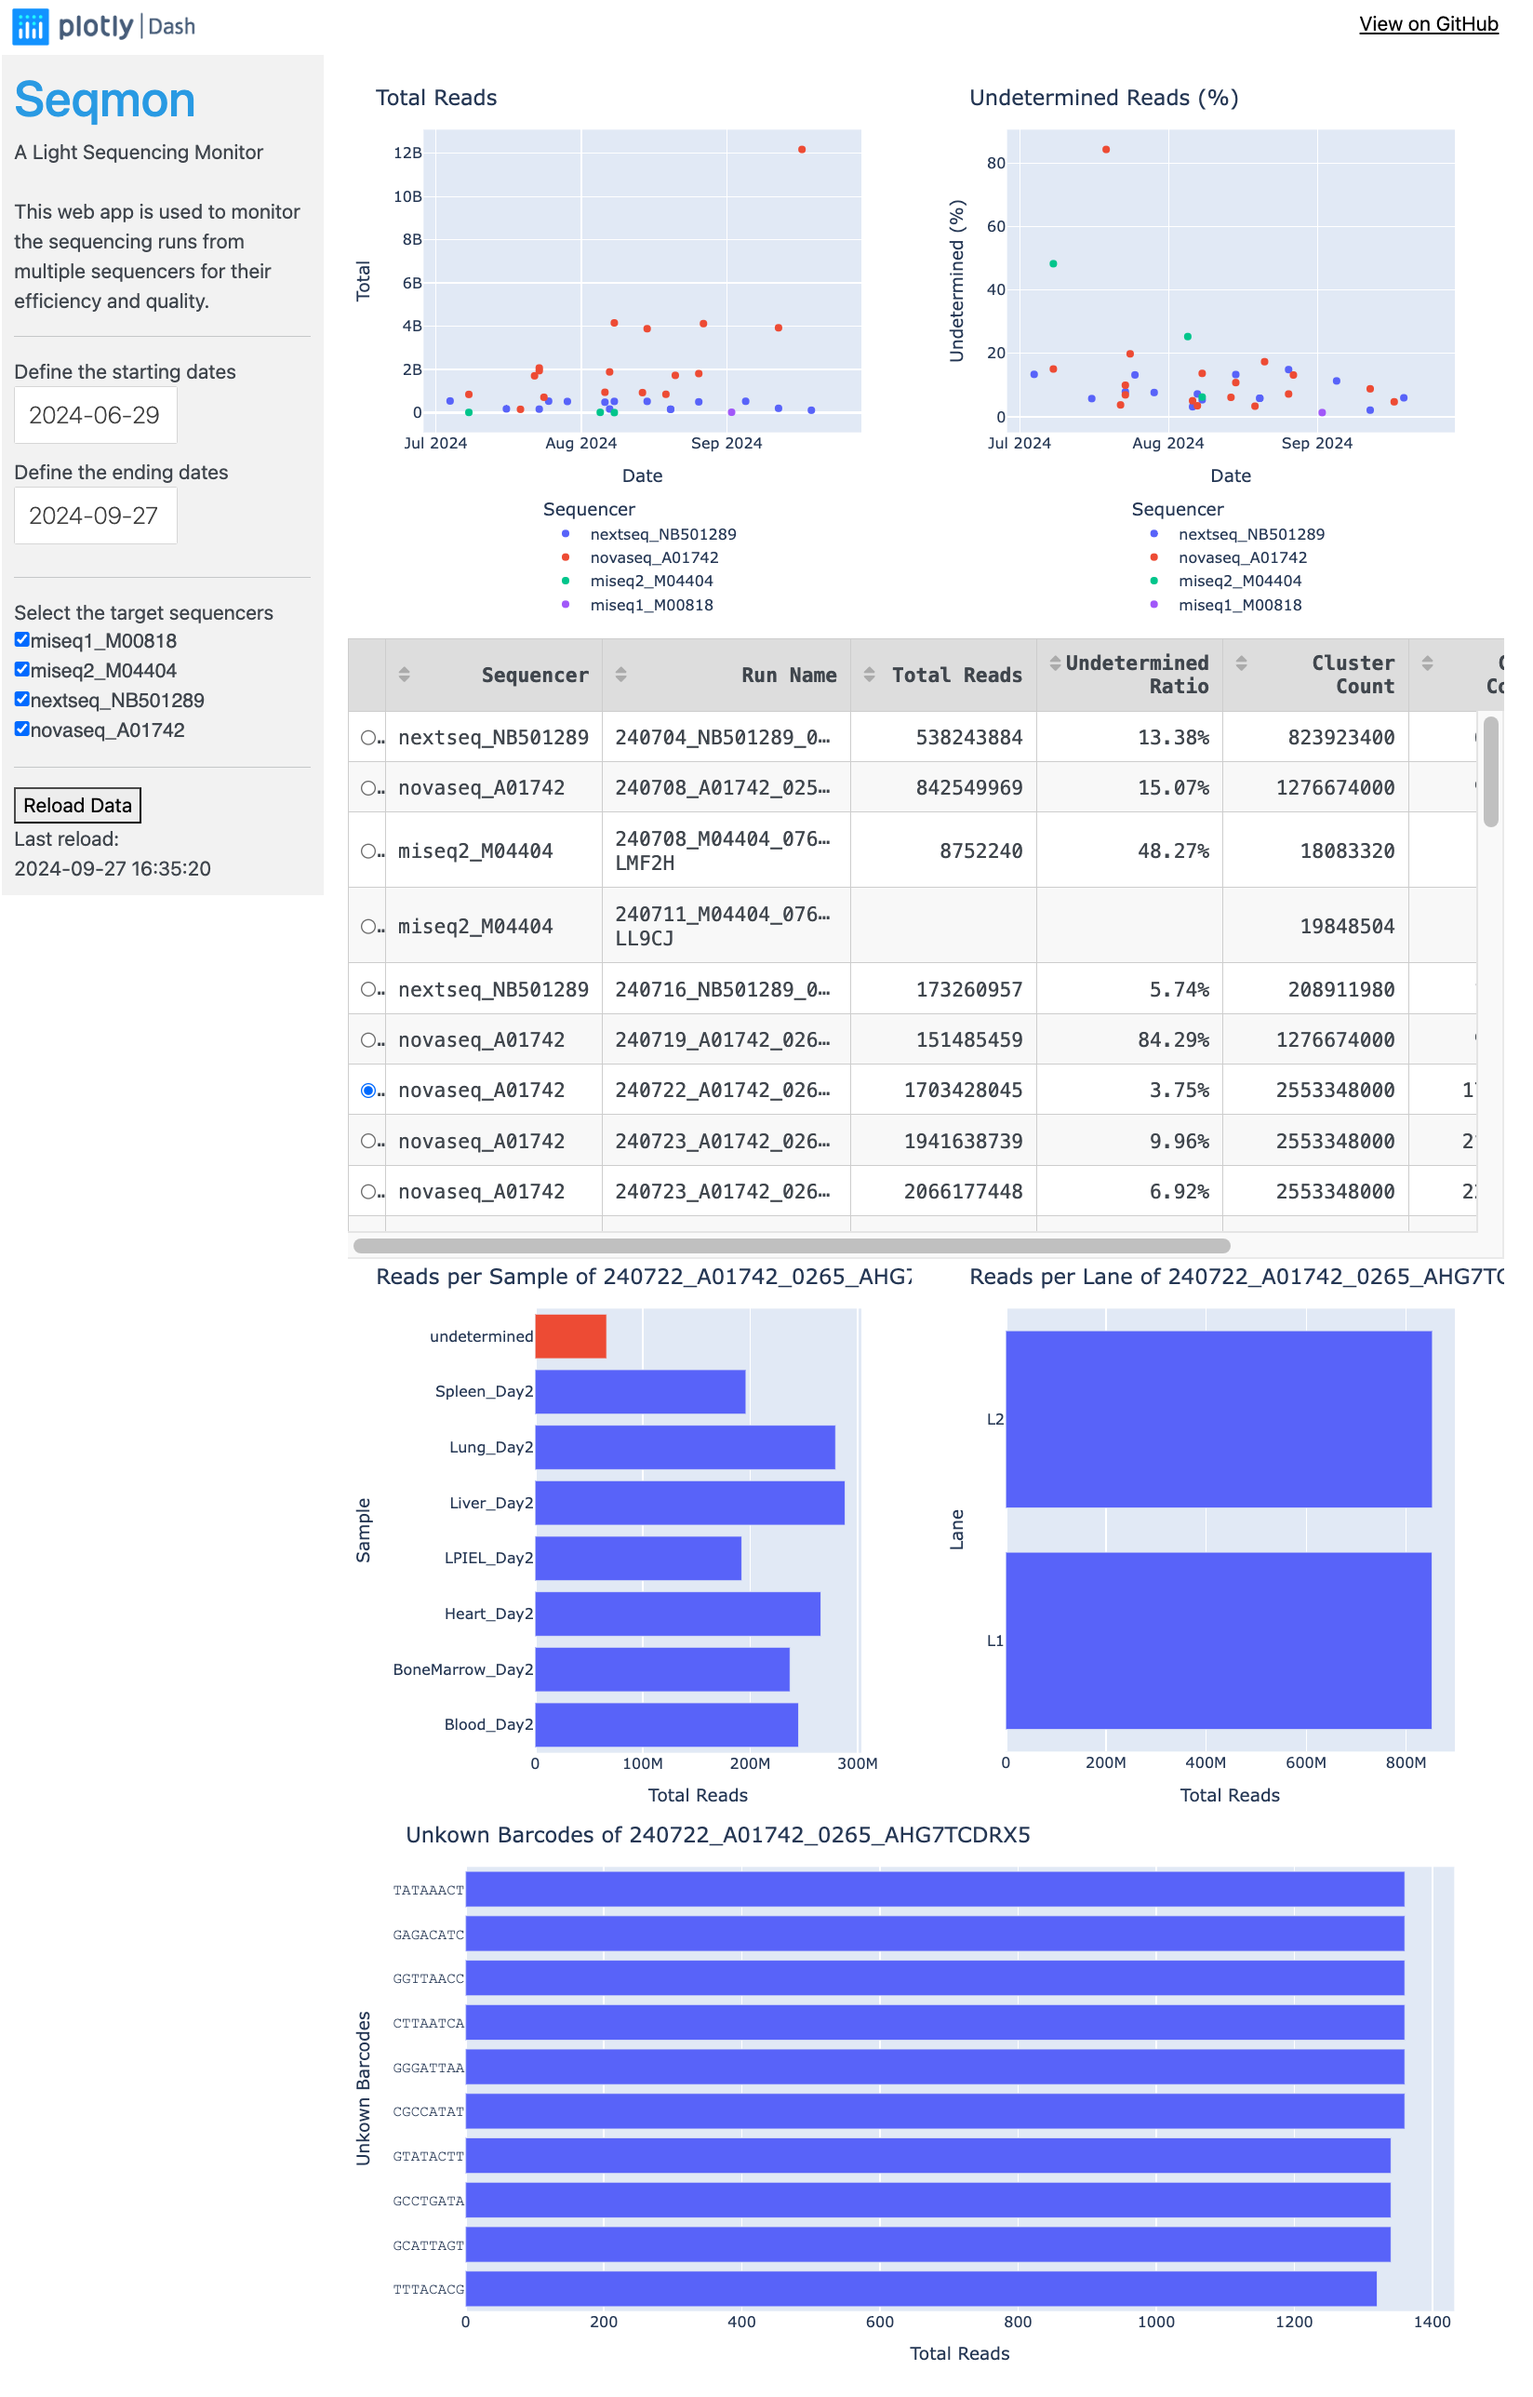
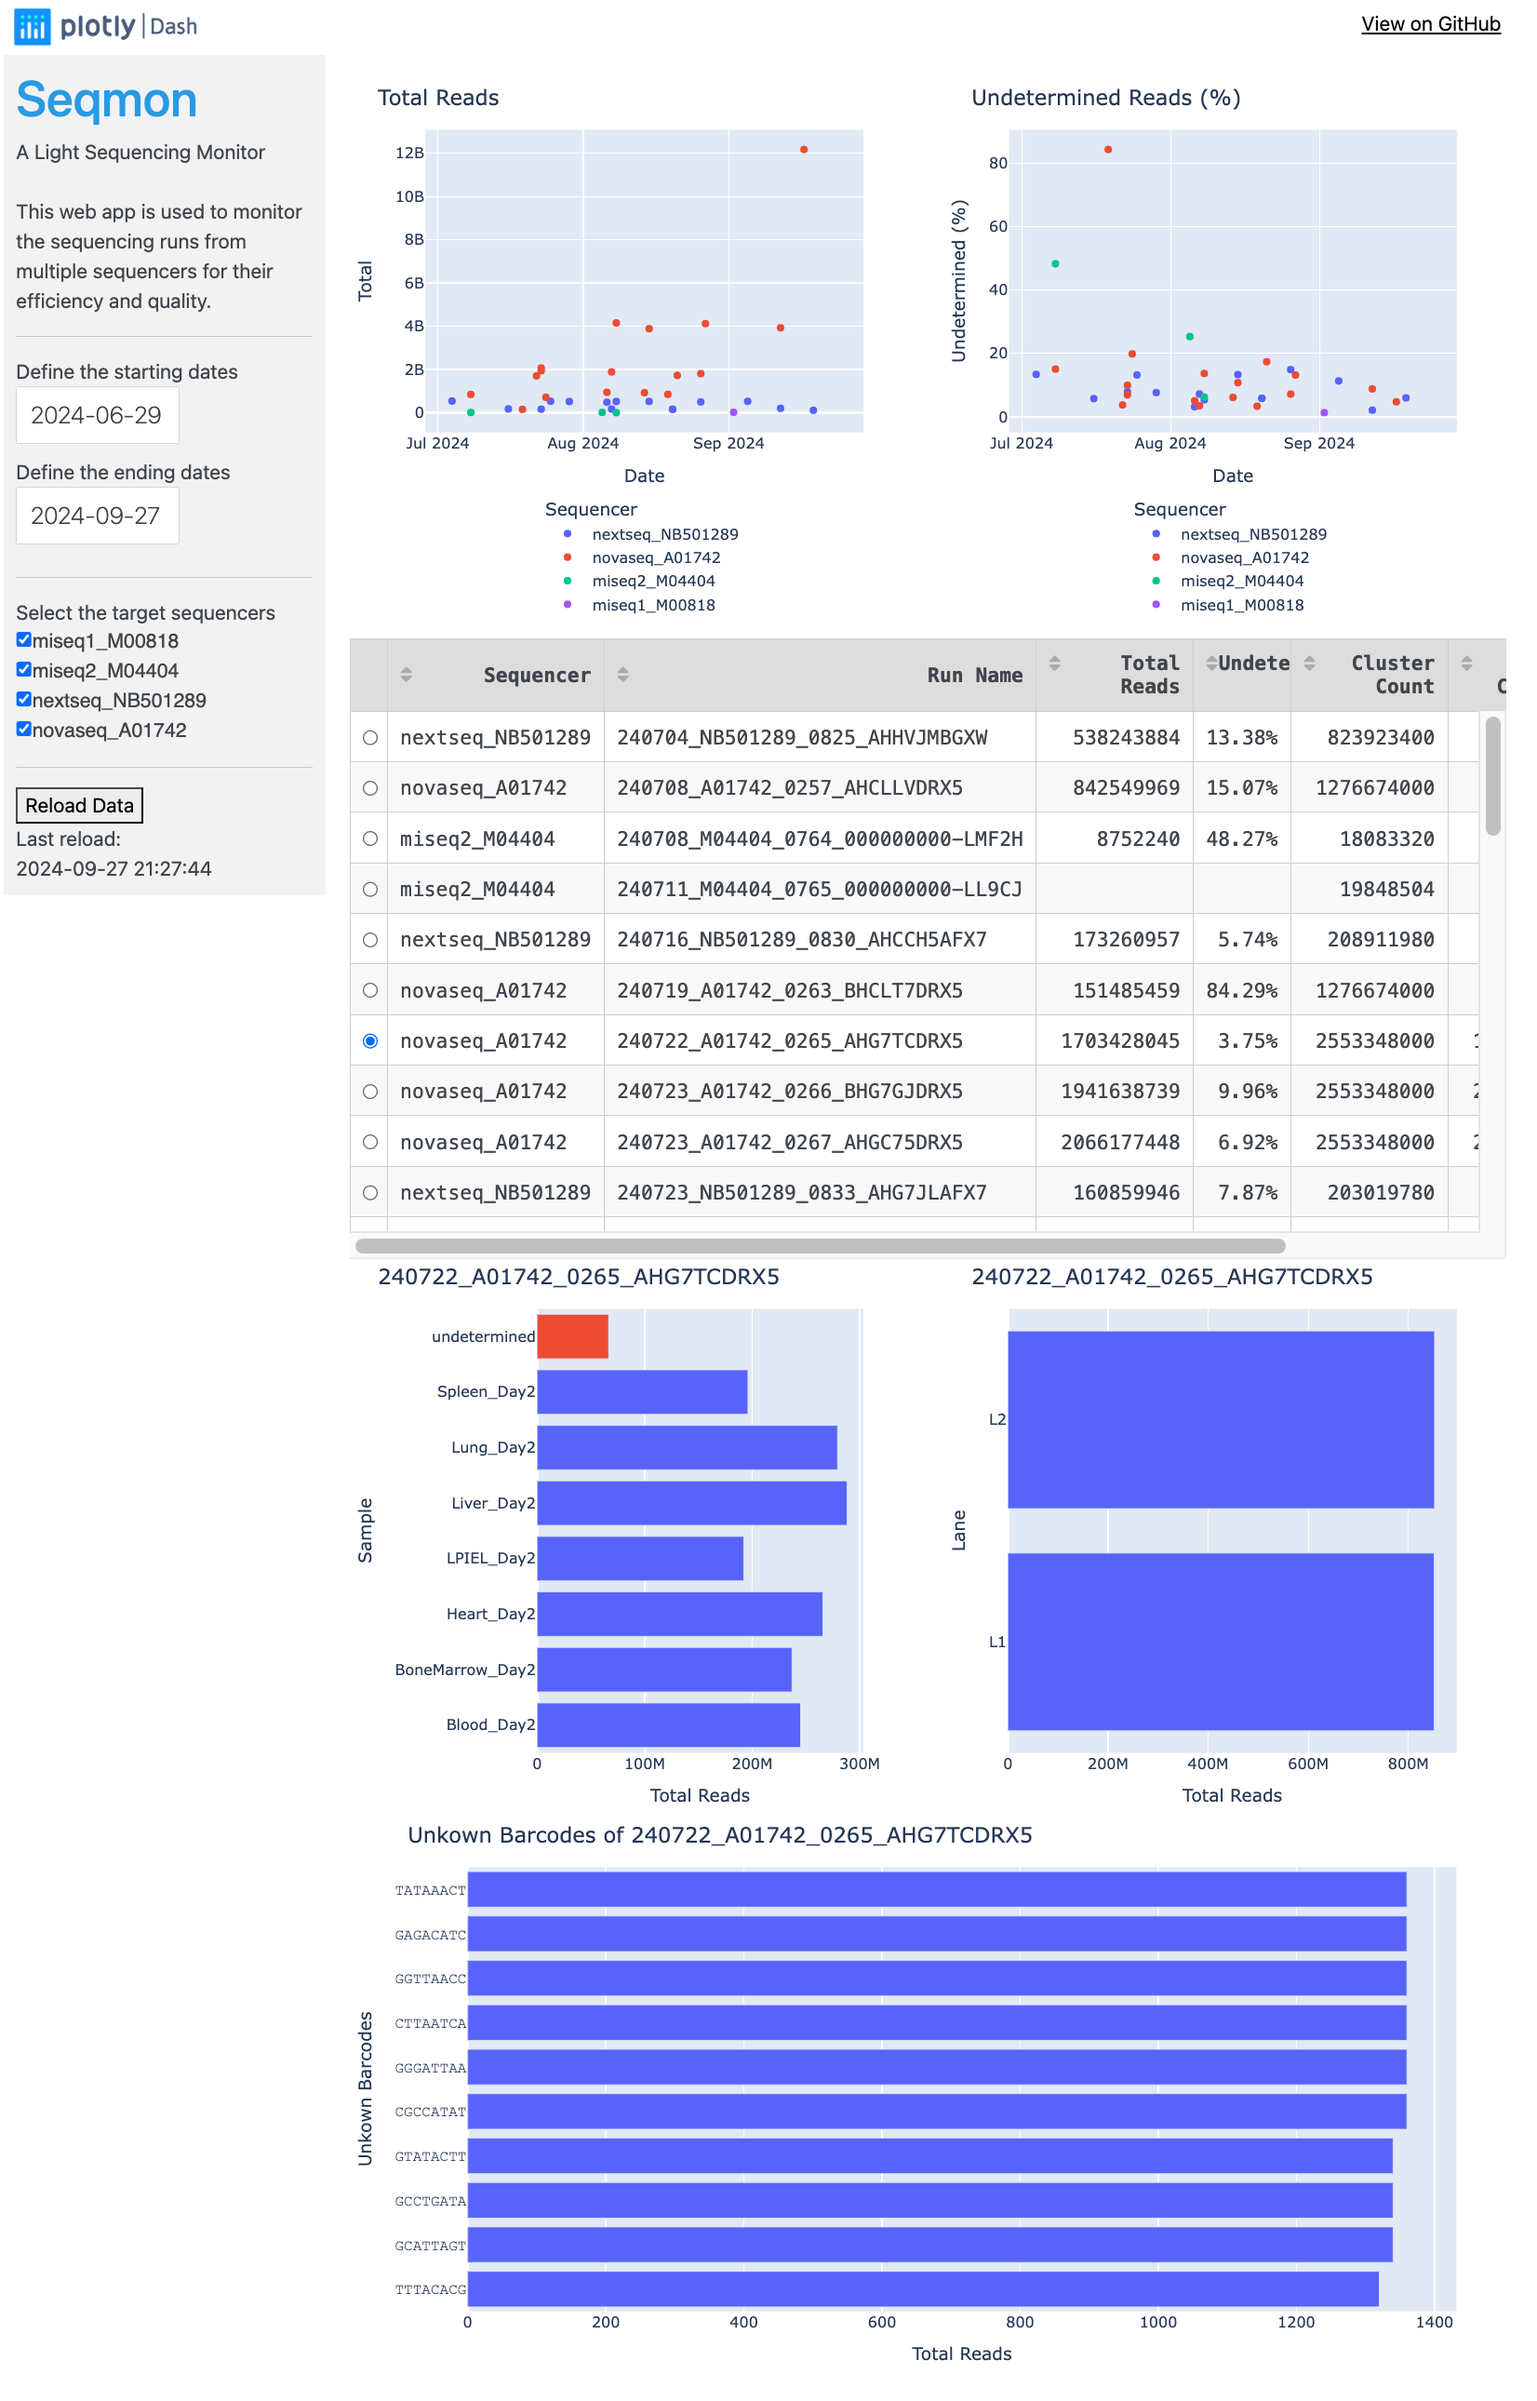
update

diff --git a/src/layouts.py b/src/layouts.py
@@ -108,12 +108,11 @@ def table_summary():
                 row_selectable='single',
                 selected_rows=[],
                 style_table={'height': '500px', 'overflowY': 'auto'},
-                style_cell={'textAlign': 'right', 'padding': '10px',
-                            'minWidth': '100px', 'width': '150px',
-                            'maxWidth': '200px',
+                style_cell={'textAlign': 'right',
+                            'padding': '10px',
                             'whiteSpace': 'normal', 
                             'overflow': 'hidden',
-                            'textOverflow': 'ellipsis',},
+                            'textOverflow': 'clip',},
                 style_header={'backgroundColor': '#e1e1e1', 'fontWeight': 'bold'},
                 fixed_rows={'headers': True},
                 style_data_conditional=[
@@ -128,6 +127,14 @@ def table_summary():
                     {
                         'if': {'column_id': 'sequencer_x'},
                         'textAlign': 'left',  # Align 'sequencer' column to the left
+                    },
+                    {
+                        'if': {'column_id': 'selected_row'},
+                        'width': '150px',  # Adjust the width of the selection column
+                        'textAlign': 'center',  # Center-align the tick boxes
+                        'overflow': 'hidden',  # Prevent overflow
+                        'textOverflow': 'clip',  # Prevent the overflow dots
+                        'padding': '0px 0px',  # Adjust padding to make the tick box fit better
                     }
                 ],
                 sort_action='native',  # Enables sortable headers

diff --git a/src/viz_each_run.py b/src/viz_each_run.py
@@ -10,7 +10,7 @@ def sample_reads(df):
     fig = px.bar(df, orientation='h',
                  y="Sample", x='total',
                  labels={'Sample': 'Sample', 'total': 'Total Reads'},
-                 title=f"Reads per Sample of {df['run_name'].iloc[0]}",
+                 title=f"{df['run_name'].iloc[0]}",
                  color='color',  # Use the color column to define the bar colors
                  color_discrete_map={'red': '#EF553B', 'blue': '#636EFA'}  # Map the color values to actual colors
                  )
@@ -28,7 +28,7 @@ def lane_reads(df):
     fig = px.bar(df, orientation='h',
                 y="lane", x='total',
                 labels={'lane': 'Lane', 'total': 'Total Reads'},
-                title=f"Reads per Lane of {df['run_name'].iloc[0]}"
+                title=f"{df['run_name'].iloc[0]}"
             )
     # Update the layout of the plot
     fig.update_layout(

diff --git a/src/table_integration.py b/src/table_integration.py
@@ -20,7 +20,7 @@ def update_multiqc(config):
         for mq_path in multiqc_paths:
             runs = os.listdir(mq_path)
             for run_name in runs:
-                print(os.path.join(mq_path, run_name))
+                # print(os.path.join(mq_path, run_name))
                 # print(".", end="")
                 if run_name not in cached_runs:
                     seq_id = run_name.split("_")[1]
